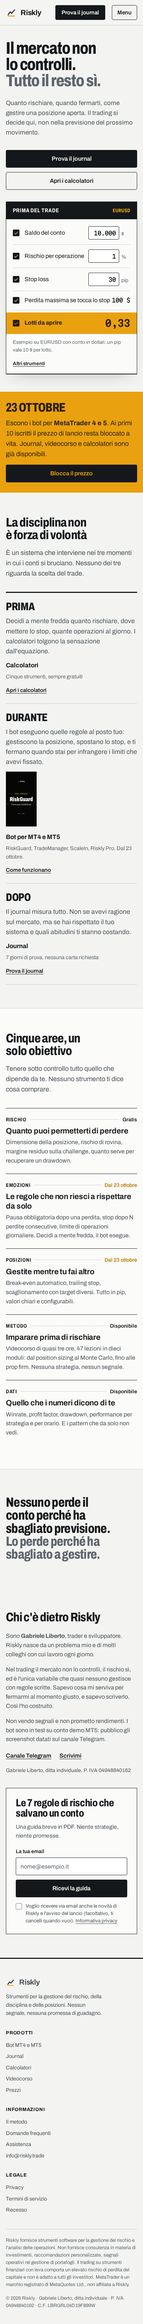
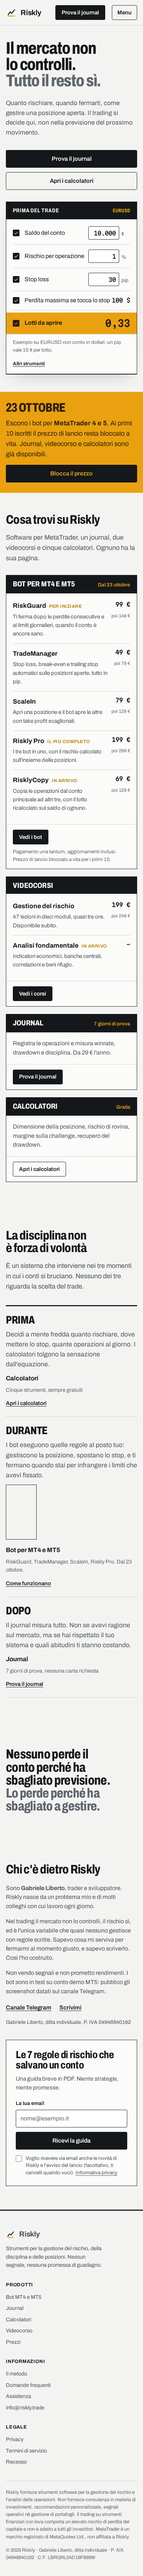
Anteprima nuovo stile: sezione prodotti con bot, videocorsi, journal e calcolatori, menu che porta ai prodotti
Claude-Session: https://claude.ai/code/session_01CZRW5kRhjiWo9ejMQNFKL6

Changed region(s): [[0.0, 0.0, 1.0, 0.9995]]

diff --git a/anteprime/manuale.html b/anteprime/manuale.html
@@ -110,6 +110,29 @@ section{padding:clamp(64px,9vw,128px) 0}
 h2{font-weight:760;font-stretch:80%;font-size:clamp(34px,4.2vw,58px);line-height:1;letter-spacing:-.02em;text-wrap:balance;max-width:18ch}
 .intro{margin-top:18px;max-width:58ch;color:var(--ink-2);font-size:18px}
 
+
+/* catalogo prodotti */
+.catalogo-sez{padding-top:clamp(56px,8vw,112px)}
+.catalogo{margin-top:clamp(32px,4vw,52px);display:grid;grid-template-columns:minmax(0,1.25fr) minmax(0,1fr);gap:clamp(20px,2.4vw,32px);align-items:start}
+.colonna{display:grid;gap:clamp(20px,2.4vw,32px)}
+.blocco{background:var(--sheet);border:1px solid var(--ink);scroll-margin-top:84px}
+.blocco-testa{display:flex;justify-content:space-between;align-items:baseline;gap:12px;background:var(--ink);color:var(--sheet);padding:12px 18px}
+.blocco-testa h3{font-weight:760;font-stretch:80%;font-size:clamp(20px,1.9vw,24px);letter-spacing:.01em;text-transform:uppercase;line-height:1.1}
+.blocco-testa .stato{font-size:13.5px;font-weight:600;color:var(--amber);white-space:nowrap}
+.blocco-corpo{padding:6px 18px 18px}
+.blocco-corpo>p{padding-top:12px;color:var(--ink-2);font-size:16px;max-width:52ch}
+.prodotti{list-style:none}
+.prodotto{display:grid;grid-template-columns:minmax(0,1fr) auto;gap:4px 16px;padding:14px 0;border-bottom:1px solid var(--rule)}
+.prodotto:last-child{border-bottom:none}
+.prodotto b{font-size:17.5px;font-weight:700}
+.prodotto .etichetta{font-size:12.5px;font-weight:600;letter-spacing:.04em;text-transform:uppercase;color:var(--amber-deep);margin-left:8px}
+.prodotto .prezzo{text-align:right;font:600 16px/1.2 'Martian Mono',monospace;font-stretch:88%;white-space:nowrap}
+.prodotto .dopo{grid-column:2;text-align:right;font-size:12.5px;color:var(--ink-3);white-space:nowrap}
+.prodotto p{grid-column:1;grid-row:2 / span 2;color:var(--ink-2);font-size:15px;max-width:54ch}
+.blocco-piede{display:flex;flex-wrap:wrap;gap:10px 18px;align-items:center;padding:14px 18px;border-top:1px solid var(--rule)}
+.blocco-piede span{font-size:13.5px;color:var(--ink-3)}
+@media (max-width:960px){.catalogo{grid-template-columns:1fr}}
+
 /* procedura prima / durante / dopo */
 .procedura{margin-top:clamp(36px,5vw,64px);border-top:3px solid var(--ink)}
 .fase{display:grid;grid-template-columns:minmax(150px,.7fr) minmax(0,1.6fr) minmax(0,1fr);gap:clamp(20px,4vw,56px);padding:clamp(24px,3vw,36px) 0;border-bottom:1px solid var(--rule)}
@@ -205,11 +228,11 @@ footer .legale{margin-top:16px;font-size:13px;color:var(--ink-3)}
       Riskly
     </a>
     <ul class="menu">
-      <li><a href="#procedura">Bot</a></li>
-      <li><a href="#procedura">Journal</a></li>
-      <li><a href="#apertura">Calcolatori</a></li>
-      <li><a href="#aree">Videocorso</a></li>
-      <li><a href="#aree">Prezzi</a></li>
+      <li><a href="#bot">Bot</a></li>
+      <li><a href="#corsi">Videocorsi</a></li>
+      <li><a href="#journal">Journal</a></li>
+      <li><a href="#calcolatori">Calcolatori</a></li>
+      <li><a href="#prodotti">Prezzi</a></li>
       <li><a href="#dietro">Chi siamo</a></li>
     </ul>
     <div class="azioni">
@@ -219,7 +242,7 @@ footer .legale{margin-top:16px;font-size:13px;color:var(--ink-3)}
     </div>
   </div>
   <nav id="menu-mobile" hidden>
-    <a href="#procedura">Bot</a><a href="#procedura">Journal</a><a href="#apertura">Calcolatori</a><a href="#aree">Videocorso</a><a href="#aree">Prezzi</a><a href="#dietro">Chi siamo</a><a href="#">Accedi</a>
+    <a href="#bot">Bot</a><a href="#corsi">Videocorsi</a><a href="#journal">Journal</a><a href="#calcolatori">Calcolatori</a><a href="#prodotti">Prezzi</a><a href="#dietro">Chi siamo</a><a href="#">Accedi</a>
   </nav>
 </header>
 
@@ -267,6 +290,58 @@ footer .legale{margin-top:16px;font-size:13px;color:var(--ink-3)}
     </div>
   </div>
 
+
+  <section class="catalogo-sez" id="prodotti">
+    <div class="wrap">
+      <h2>Cosa trovi su Riskly</h2>
+      <p class="intro">Software per MetaTrader, un journal, due videocorsi e cinque calcolatori. Ognuno ha la sua pagina.</p>
+      <div class="catalogo">
+        <div class="blocco" id="bot">
+          <div class="blocco-testa"><h3>Bot per MT4 e MT5</h3><span class="stato">Dal 23 ottobre</span></div>
+          <div class="blocco-corpo">
+            <ol class="prodotti">
+              <li class="prodotto"><b>RiskGuard<span class="etichetta">Per iniziare</span></b><span class="prezzo">99 €</span><span class="dopo">poi 149 €</span>
+                <p>Ti ferma dopo le perdite consecutive e ai limiti giornalieri, quando il conto è ancora sano.</p></li>
+              <li class="prodotto"><b>TradeManager</b><span class="prezzo">49 €</span><span class="dopo">poi 79 €</span>
+                <p>Stop loss, break-even e trailing stop automatici sulle posizioni aperte, tutto in pip.</p></li>
+              <li class="prodotto"><b>ScaleIn</b><span class="prezzo">79 €</span><span class="dopo">poi 129 €</span>
+                <p>Apri una posizione e il bot apre le altre con take profit scaglionati.</p></li>
+              <li class="prodotto"><b>Riskly Pro<span class="etichetta">Il più completo</span></b><span class="prezzo">199 €</span><span class="dopo">poi 299 €</span>
+                <p>I tre bot in uno, con il rischio calcolato sull'insieme delle posizioni.</p></li>
+              <li class="prodotto"><b>RisklyCopy<span class="etichetta">In arrivo</span></b><span class="prezzo">69 €</span><span class="dopo">poi 129 €</span>
+                <p>Copia le operazioni dal conto principale ad altri tre, con il lotto ricalcolato sul saldo di ognuno.</p></li>
+            </ol>
+          </div>
+          <div class="blocco-piede"><a class="btn btn-pieno btn-piccolo" href="#">Vedi i bot</a><span>Pagamento una tantum, aggiornamenti inclusi. Prezzo di lancio bloccato a vita per i primi 10.</span></div>
+        </div>
+        <div class="colonna">
+          <div class="blocco" id="corsi">
+            <div class="blocco-testa"><h3>Videocorsi</h3></div>
+            <div class="blocco-corpo">
+              <ol class="prodotti">
+                <li class="prodotto"><b>Gestione del rischio</b><span class="prezzo">199 €</span><span class="dopo">poi 249 €</span>
+                  <p>47 lezioni in dieci moduli, quasi tre ore. Disponibile subito.</p></li>
+                <li class="prodotto"><b>Analisi fondamentale<span class="etichetta">In arrivo</span></b><span class="prezzo">-</span>
+                  <p>Indicatori economici, banche centrali, correlazioni e beni rifugio.</p></li>
+              </ol>
+            </div>
+            <div class="blocco-piede"><a class="btn btn-pieno btn-piccolo" href="#">Vedi i corsi</a></div>
+          </div>
+          <div class="blocco" id="journal">
+            <div class="blocco-testa"><h3>Journal</h3><span class="stato">7 giorni di prova</span></div>
+            <div class="blocco-corpo"><p>Registra le operazioni e misura winrate, drawdown e disciplina. Da 29 € l'anno.</p></div>
+            <div class="blocco-piede"><a class="btn btn-pieno btn-piccolo" href="#">Prova il journal</a></div>
+          </div>
+          <div class="blocco" id="calcolatori">
+            <div class="blocco-testa"><h3>Calcolatori</h3><span class="stato">Gratis</span></div>
+            <div class="blocco-corpo"><p>Dimensione della posizione, rischio di rovina, margine sulla challenge, recupero del drawdown.</p></div>
+            <div class="blocco-piede"><a class="btn btn-linea btn-piccolo" href="#">Apri i calcolatori</a></div>
+          </div>
+        </div>
+      </div>
+    </div>
+  </section>
+
   <section id="procedura">
     <div class="wrap">
       <h2>La disciplina non è forza di volontà</h2>
@@ -291,29 +366,6 @@ footer .legale{margin-top:16px;font-size:13px;color:var(--ink-3)}
     </div>
   </section>
 
-  <section class="indice-sez" id="aree">
-    <div class="wrap">
-      <h2>Cinque aree, un solo obiettivo</h2>
-      <p class="intro">Tenere sotto controllo tutto quello che dipende da te. Nessuno strumento ti dice cosa comprare.</p>
-      <ol class="indice">
-        <li><div class="riga"><span class="area">Rischio</span><i></i><span class="stato">Gratis</span></div>
-          <h3>Quanto puoi permetterti di perdere</h3>
-          <p>Dimensione della posizione, rischio di rovina, margine residuo sulla challenge, quanto serve per recuperare un drawdown.</p></li>
-        <li><div class="riga"><span class="area">Emozioni</span><i></i><span class="stato attesa">Dal 23 ottobre</span></div>
-          <h3>Le regole che non riesci a rispettare da solo</h3>
-          <p>Pausa obbligatoria dopo una perdita, stop dopo N perdite consecutive, limite di operazioni giornaliere. Decidi a mente fredda, il bot esegue.</p></li>
-        <li><div class="riga"><span class="area">Posizioni</span><i></i><span class="stato attesa">Dal 23 ottobre</span></div>
-          <h3>Gestite mentre tu fai altro</h3>
-          <p>Break-even automatico, trailing stop, scaglionamento con target diversi. Tutto in pip, valori chiari e configurabili.</p></li>
-        <li><div class="riga"><span class="area">Metodo</span><i></i><span class="stato">Disponibile</span></div>
-          <h3>Imparare prima di rischiare</h3>
-          <p>Videocorso di quasi tre ore, 47 lezioni in dieci moduli: dal position sizing al Monte Carlo, fino alle prop firm. Nessuna strategia, nessun segnale.</p></li>
-        <li><div class="riga"><span class="area">Dati</span><i></i><span class="stato">Disponibile</span></div>
-          <h3>Quello che i numeri dicono di te</h3>
-          <p>Winrate, profit factor, drawdown, performance per strategia e per orario. E i pattern che da solo non vedi.</p></li>
-      </ol>
-    </div>
-  </section>
 
   <div class="frase">
     <div class="wrap">
